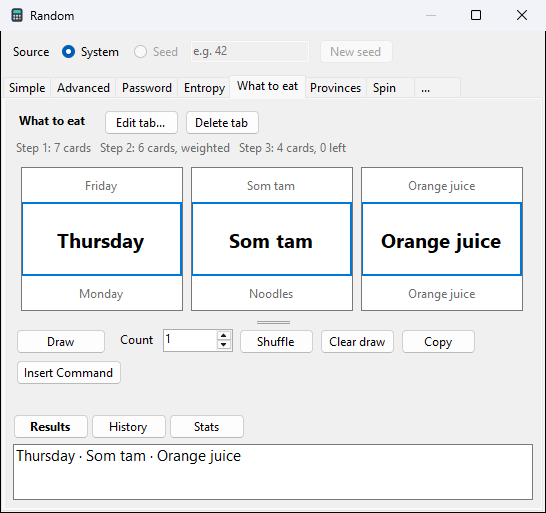
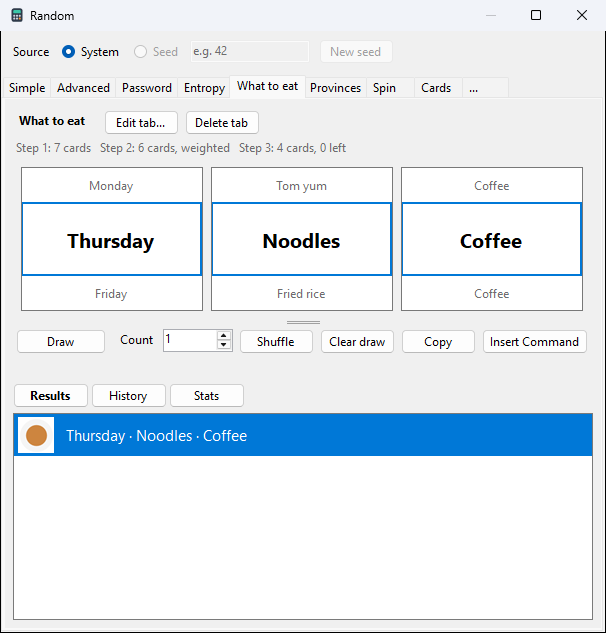
help: deck covers, card pictures, playing cards and flags
Help 17 (desktop and web) and 14: covers and Cover..., Covers/List,
More, the cards as pictures, View large, pictures at 512 px, the
playing cards' pictures and the flags with their credits, drawn cards
with pictures. The Random pictures are made again (the window's first
size grew; random-draw-list is new). The deck editor's weight note is
shorter, so it is not cut off.

Changed region(s): [[0.0, 0.0, 1.0, 1.0], [0.9341, 0.0, 0.9652, 0.0312], [0.8718, 0.0, 0.9029, 0.0312]]

diff --git a/ui/SoftCalc/UI/DeckEditor.cs b/ui/SoftCalc/UI/DeckEditor.cs
@@ -148,7 +148,7 @@ internal sealed class DeckEditor : Form
 		var weightNote = new Label
 		{
 			AutoSize = true, MaximumSize = new Size(200, 0), ForeColor = SystemColors.GrayText,
-			Text = "A card of weight 2 comes up twice as often as one of weight 1 (when the draw uses weights).",
+			Text = "Weight 2: twice as likely as weight 1, when the draw uses weights.",
 		};
 		card.Controls.Add(Caption("Colour"), 0, 4);
 		var colourRow = new FlowLayoutPanel { AutoSize = true, Margin = Padding.Empty, WrapContents = false };

diff --git a/help/17-random.md b/help/17-random.md
@@ -258,33 +258,55 @@ random they really are.
 
 ![The ... tab](img/random-cards.light.png)
 
-A draw picks from a pile of cards. The **...** tab holds the decks:
+A draw picks from a pile of cards. The **...** tab holds the decks,
+each shown by its cover; **Covers** and **List** switch to the list of
+names and back. The window grows once to fit a row of covers.
 
 - **My decks**: **New deck...**, **Edit...** (or a double-click),
-  **Copy**, **Delete** (it asks first), **Import CSV...** (a new deck
-  named after the file) and **Export CSV...**.
-- **Export all decks...** saves all your decks, with their pictures, in
-  one zip file; **Import decks...** adds the decks from one (see *Data
-  and files*). File > Export Decks... and Import Decks... do the same.
+  **Delete** (it asks first) and **Cover...**. **More** holds **Copy**,
+  **Import CSV...** (a new deck named after the file), **Export
+  CSV...**, and **Import decks...** / **Export all decks...**: all your
+  decks, with their pictures and covers, in one zip file (see *Data and
+  files*). File > Export Decks... and Import Decks... do the same.
+- A deck's **cover** is the picture chosen for it (**Cover...** >
+  Choose a picture, or **Use as cover** on a card), else its first
+  card's picture, else up to four of its cards' colours, else the first
+  letter of its name on a colour of its own (for a name such as
+  `Districts: Bangkok`, the letter after the colon). **Auto** goes back
+  to that from a chosen picture.
 - **Insert Command** puts `card("deck")` for the chosen deck in Input,
   to draw from it in a line (see *Functions*).
 - **Ready-made decks**: playing cards (four colours: spades black,
-  hearts red, diamonds blue, clubs green; the two jokers start unticked
-  in a draw), months, days of the week, the provinces of Thailand and
+  hearts red, diamonds blue, clubs green, with a picture of each card;
+  the two jokers start unticked in a draw), months, days of the week, the provinces of Thailand and
   its 928 districts (all of them, and a deck for each province; names
   from the Office of the Royal Society, see File > About), countries by
-  continent (the UN members, Palestine, Taiwan and the
+  continent with their flags (the UN members, Palestine, Taiwan and the
   Vatican; also all of them), twelve colours, the zodiac signs and the
   animal years. **Ready-made names** shows them in English or Thai.
   They cannot be edited: **View...** shows the cards, **Copy to my
-  decks** makes a deck you can change, in the language shown.
+  decks** makes a deck you can change, in the language shown, with its
+  pictures. The card pictures are heratexx's four-colour deck (CC0) with
+  jokers drawn to match; the flags are flag-icons (MIT); see File >
+  About.
 
 ![A deck](img/random-deck.light.png)
 
+- The cards show as **Pictures** (a weight above 1 as `×2` after the
+  name) or as a **List**; the editor keeps the one you chose.
+- **View large** (or a double-click, or Space) shows the chosen card
+  large: ◀ ▶ or the arrow keys go through the deck, Esc closes, **Use
+  as cover** makes its picture the deck's cover. A picture shows on
+  white, so a transparent one reads on the dark theme too.
+- The **Cover** row shows the deck's cover and where it comes from;
+  **Picture...** chooses one of its own, **Auto** goes back to the
+  first card's picture.
 - Each card has a name, a **Weight**, a **Picture** and a **Colour**.
   A card of weight 2 comes up twice as often as one of weight 1, when
-  the draw uses weights. A picture is shrunk to 128 pixels and kept in
-  the data folder, so the original file can move.
+  the draw uses weights. A picture is shrunk to 512 pixels and kept in
+  the data folder, so the original file can move (pictures added before
+  version 1.10 were kept at 128 pixels: choose them again to see them
+  sharper).
 - **Colour...** gives the chosen cards a colour (several at once),
   **No colour** takes it off. The dartboard and spin wheel fill a
   card's part with it, the slot machine shows a strip, and a card
@@ -384,7 +406,7 @@ repeat, and has its own rows in Stats, such as `1 → Gym`.
 
 | theme | the effect |
 |---|---|
-| List | the lines roll in Results, slowing down |
+| List | the lines roll in Results, slowing down; cards with pictures show large beside Results |
 | Slot machine | a reel for each card, stopping one by one from the left; with Count 2 to 5 every line plays, a row each (side by side when each line has one card); new tabs start here |
 | Dartboard | a board for each card, each card's part as big as its chance; the board spins 2 to 4 seconds and the dart is thrown 1 to 3 seconds in, so it may land while the board still turns and turn with it |
 | Spin wheel | up to three rings a wheel, a card each, turning in turn the other way and stopping from the outside in; the card under the marker at the top (and the one on the hub) is drawn; more cards spin more wheels |
@@ -405,6 +427,11 @@ repeat, and has its own rows in Stats, such as `1 → Gym`.
 - **Results** shows the last Draw, **History** every line with its
   date and time (newest first, the last 1000), **Stats** how often each
   card came up, its share, and the share its weight gives.
+- A drawn card with a picture shows it small in its Results line; on
+  the List theme the chosen line's cards show large beside Results
+  (the first line after a Draw; click another to see it).
+
+![The List theme with pictures](img/random-draw-list.light.png)
 - **Clear draw** empties Results; History and Stats stay. **Clear
   history...** (on the History tab) and **Clear stats...** (on the Stats
   tab) ask first, then empty that list. **Copy** copies the chosen lines

diff --git a/web/app/help/17-random.md b/web/app/help/17-random.md
@@ -58,23 +58,35 @@ drops `Il1O0o`. Every password has at least one of each kind chosen.
 
 Draws cards from a deck.
 
-- **Ready-made decks**, in English or ไทย: a pack of playing cards (the
-  two jokers start unticked), months, days, the provinces of Thailand,
-  the districts (all, or by province), countries (all, or by
-  continent), colours, the zodiac and the animal years.
+- Tap **Deck** to choose one: your decks and the ready-made ones show as
+  covers. A deck's cover is the picture chosen for it, else its first
+  card's picture, else its cards' colours, else the first letter of its
+  name.
+- **Ready-made decks**, in English or ไทย: a pack of playing cards with
+  their pictures (the two jokers start unticked), months, days, the
+  provinces of Thailand, the districts (all, or by province), countries
+  with their flags (all, or by continent), colours, the zodiac and the
+  animal years. The card pictures are heratexx's four-colour deck (CC0)
+  with jokers drawn to match; the flags are flag-icons (MIT).
 - **Your own decks**: **New deck**, then one card a line; a weight after
   a bar makes a card more likely (`Fried rice | 3`). **Edit** and
   **Delete** change them; **Copy to my decks** makes a ready-made deck
-  your own.
+  your own, with its pictures.
 - **Import CSV** and **Export CSV** read and write the desktop's deck
   file (name, weight, image, colour; a CSV's pictures are not read here).
-- **Export all decks** saves all your decks, with their pictures, in one
-  zip file, the desktop's; **Import decks** adds the decks from one. A
-  deck already here is skipped, one of the same name with other cards
-  comes in as `name (2)`. ⋮ > Export and Import do the same. The
-  pictures are kept, though not shown yet.
+- **Export all decks** saves all your decks, with their pictures and
+  covers, in one zip file, the desktop's; **Import decks** adds the decks
+  from one. A deck already here is skipped, one of the same name with
+  other cards comes in as `name (2)`. ⋮ > Export and Import do the same.
 - **Insert command** puts the `card()` line for the deck, Count and No
   repeat in Input, such as `card("Months", 3, 1)`.
-- Tap the card count to see the cards; untick any to leave them out.
+- Tap the card count to see the cards, as pictures when the deck has
+  them; untick any to leave them out. Tap a picture to see the card
+  full screen: swipe (or ‹ ›) for the next one, **Leave out** / **Put
+  back**, and on your own decks **Use as cover**. Pictures show on
+  white, so a transparent one reads on the dark theme too.
+- Drawn cards with pictures show one small on each line, and the chosen
+  one large above them with **Insert into Input** and **Copy**; tap a
+  line to show it. Without pictures, a tap on a line offers the same.
 - **No repeat** works like a pile: a drawn card stays out until
   **Shuffle**, also next time.

diff --git a/design/TODO.md b/design/TODO.md
@@ -635,7 +635,7 @@ ends 1:1, the drag insert line is visible enough on dark.
       currencies; old ribbon ids still work. Merged 2026-11-24.
 
 ## Later (owner 2026-11-23, a separate piece of work)
-- [ ] Deck covers, desktop built 2026-11-24 (branch deck-covers; mock-up
+- [x] (help 17 and 14 updated 2026-11-24) Deck covers, desktop built 2026-11-24 (branch deck-covers; mock-up
       https://claude.ai/artifact/EaFVN9n5friaqiXuDvgLnB): the ... tab shows
       decks as covers or a list; Cover... and the editor's Cover row set a
       deck's own picture, else the first card's picture, its colours or
@@ -658,7 +658,7 @@ ends 1:1, the drag insert line is visible enough on dark.
       out); ready-made pictures come from the build (covers.ts); Copy to my
       decks keeps them; the cover goes through the decks zip. A letter
       cover takes the part after ": " (Districts: Bangkok is B), both apps.
-- [ ] (first note) Deck covers: a new deck chooser that shows each deck's cover; the
+- [x] (first note) Deck covers: a new deck chooser that shows each deck's cover; the
       default cover is one of the deck's card pictures. Maybe pictures for
       the ready-made decks too, at least the playing cards. Free-licence
       candidates found 2026-11-23 (licences to check again before use):

diff --git a/help/14-data-files.md b/help/14-data-files.md
@@ -73,16 +73,16 @@ days stay apart.
   comes in as `name (2)`.
 - Past 500 decks the rest are left out. A message says how many decks
   were added, renamed and skipped.
-- The zip holds `decks.json` and a `pictures` folder, each picture once.
-  Ready-made decks and draw tabs are not in it.
+- The zip holds `decks.json` and a `pictures` folder, each picture once,
+  the decks' own covers too. Ready-made decks and draw tabs are not in it.
 
 ### Between computers and phones
 
 The web app and the Android app write and read the same files
 (⋮ > Export and ⋮ > Import), so History, definitions, Graph equations
 and card decks move between SoftCalc on a computer, a phone and a
-tablet. A phone keeps the cards' pictures, though it does not show them
-yet, so they come back with the decks.
+tablet. A phone shows the cards' pictures and keeps them, so they come
+back with the decks.
 On the phone, Import adds definitions to the ones there instead of
 replacing them.
 
